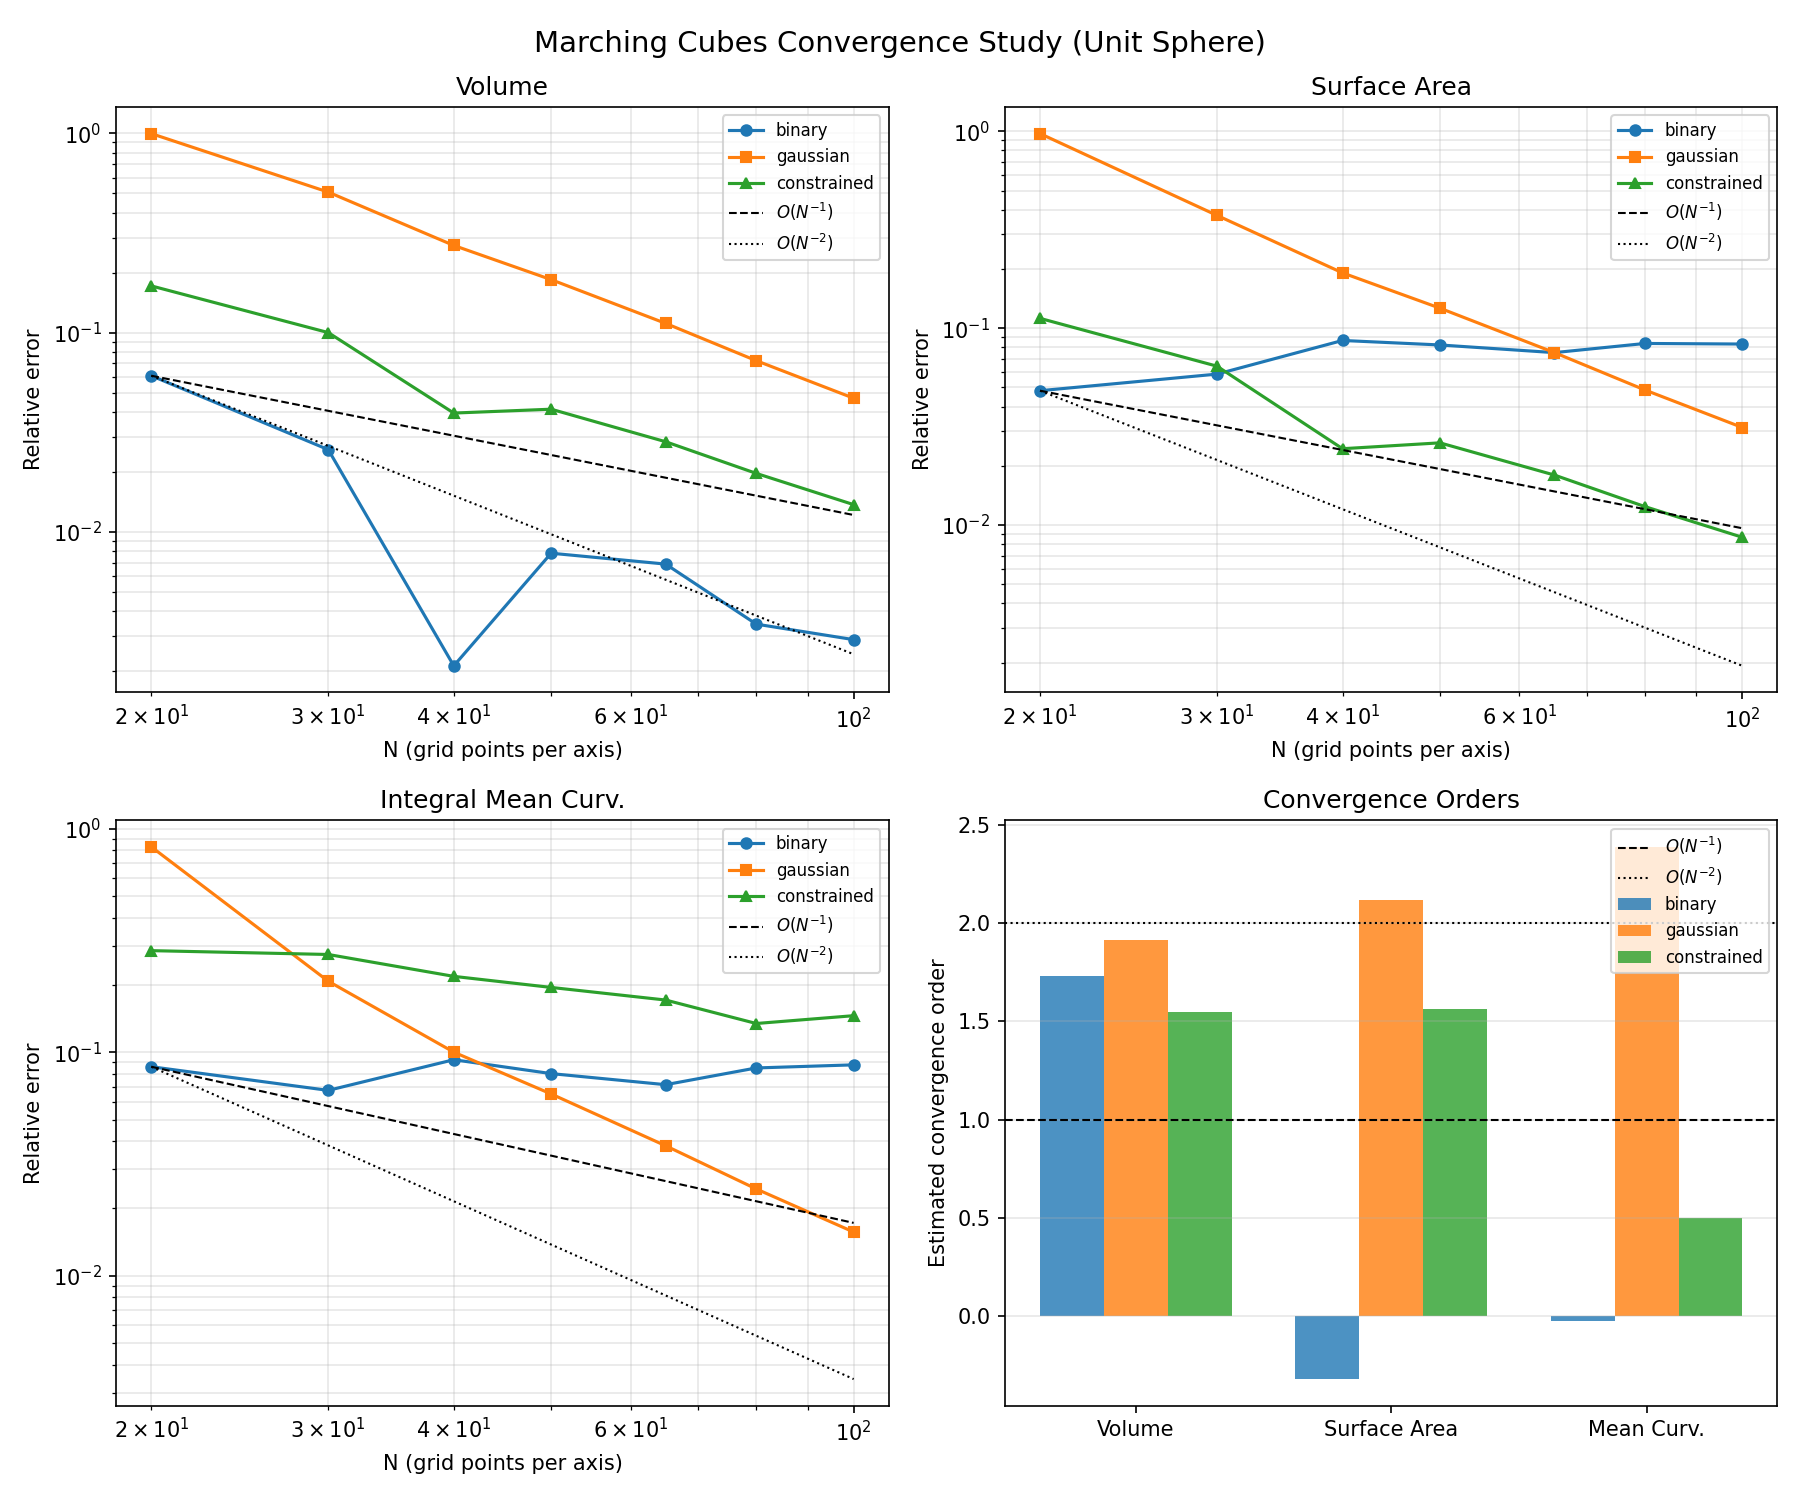
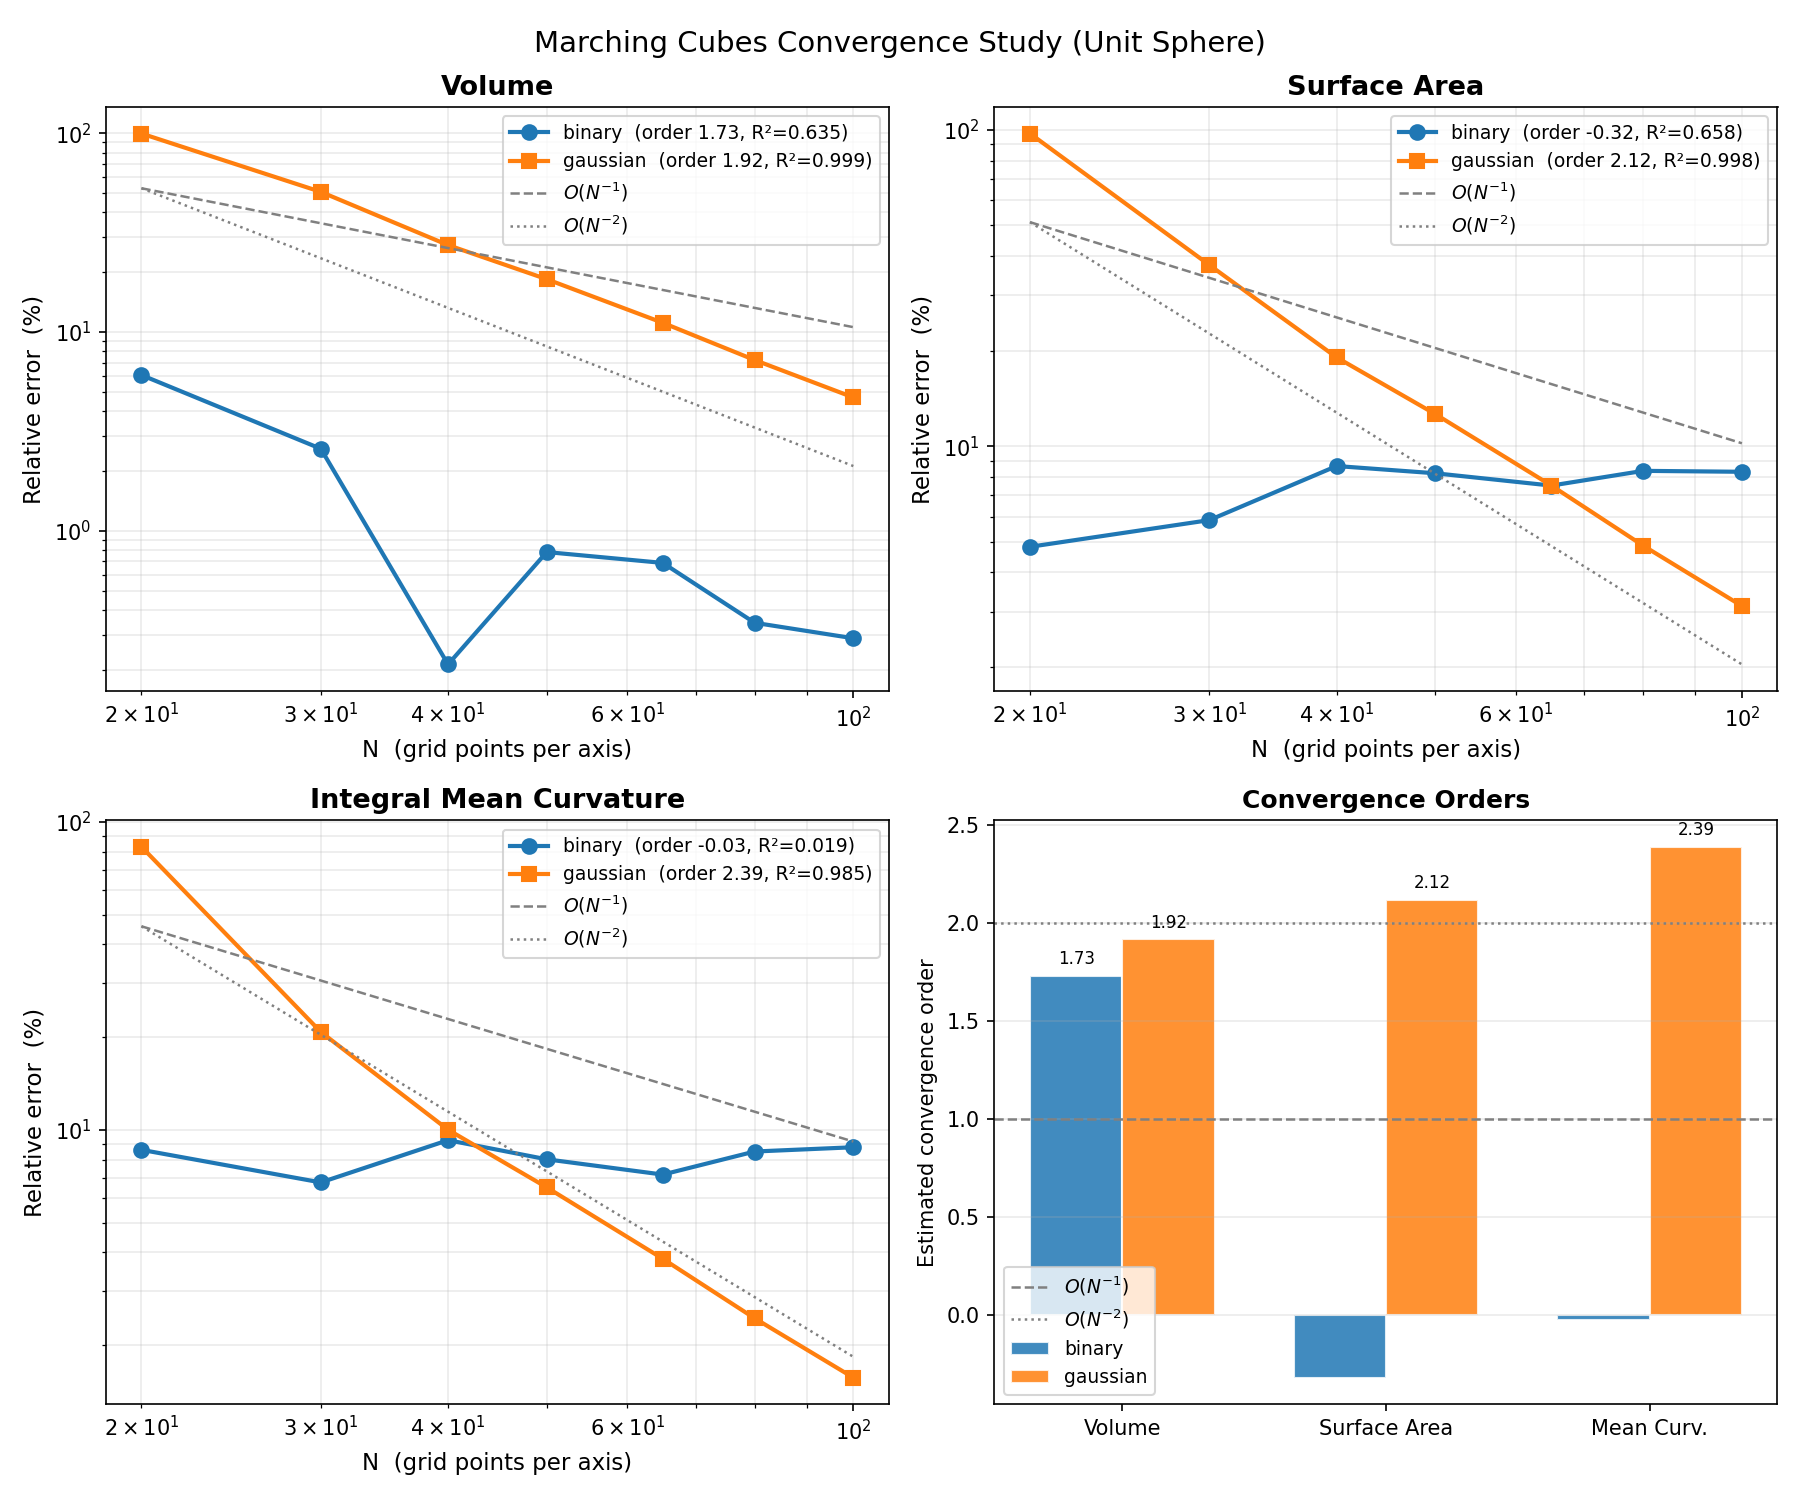
Add 2x2 overview PNG alongside per-metric PDFs

diff --git a/convergence_test.py b/convergence_test.py
@@ -308,9 +308,50 @@ def plot_convergence(results):
         plt.close(fig)
     saved.append(fname)
 
+    # 2×2 overview PNG
+    fig, axes = plt.subplots(2, 2, figsize=(12, 10))
+    fig.suptitle("Marching Cubes Convergence Study (Unit Sphere)", fontsize=14)
+    for (metric, title, _), ax in zip(metric_specs, axes.flat):
+        _add_convergence_axes(ax, results, metric, title)
+
+    # bar chart in last panel
+    ax_bar = axes[1, 1]
+    colors  = {'binary': '#1f77b4', 'gaussian': '#ff7f0e', 'constrained': '#2ca02c'}
+    metric_labels = [('volume', 'Volume'), ('area', 'Surface Area'),
+                     ('curvature', 'Mean Curv.')]
+    x     = np.arange(len(metric_labels))
+    width = 0.35
+    for i, method in enumerate(METHODS):
+        orders = []
+        for metric, _ in metric_labels:
+            errs  = [row[3] for row in results[method][metric]]
+            order, _ = estimate_convergence_rate(RESOLUTIONS, errs)
+            orders.append(order if np.isfinite(order) else 0.0)
+        bars = ax_bar.bar(x + i * width, orders, width, label=method,
+                          color=colors[method], alpha=0.85, edgecolor='white')
+        for bar, val in zip(bars, orders):
+            if val > 0.05:
+                ax_bar.text(bar.get_x() + bar.get_width() / 2,
+                            bar.get_height() + 0.04, f"{val:.2f}",
+                            ha='center', va='bottom', fontsize=8)
+    ax_bar.axhline(1, color='gray', linestyle='--', linewidth=1.2, label=r'$O(N^{-1})$')
+    ax_bar.axhline(2, color='gray', linestyle=':',  linewidth=1.2, label=r'$O(N^{-2})$')
+    ax_bar.set_xticks(x + width / 2)
+    ax_bar.set_xticklabels([lbl for _, lbl in metric_labels], fontsize=10)
+    ax_bar.set_ylabel("Estimated convergence order", fontsize=10)
+    ax_bar.set_title("Convergence Orders", fontsize=12, fontweight='bold')
+    ax_bar.legend(fontsize=9)
+    ax_bar.grid(True, axis='y', alpha=0.25)
+
+    plt.tight_layout()
+    png_file = "convergence_plot.png"
+    fig.savefig(png_file, dpi=150)
+    plt.close(fig)
+
     print("\nPDFs saved:")
     for f in saved:
         print(f"  {f}")
+    print(f"  {png_file}")
 
 
 # ---------------------------------------------------------------------------
